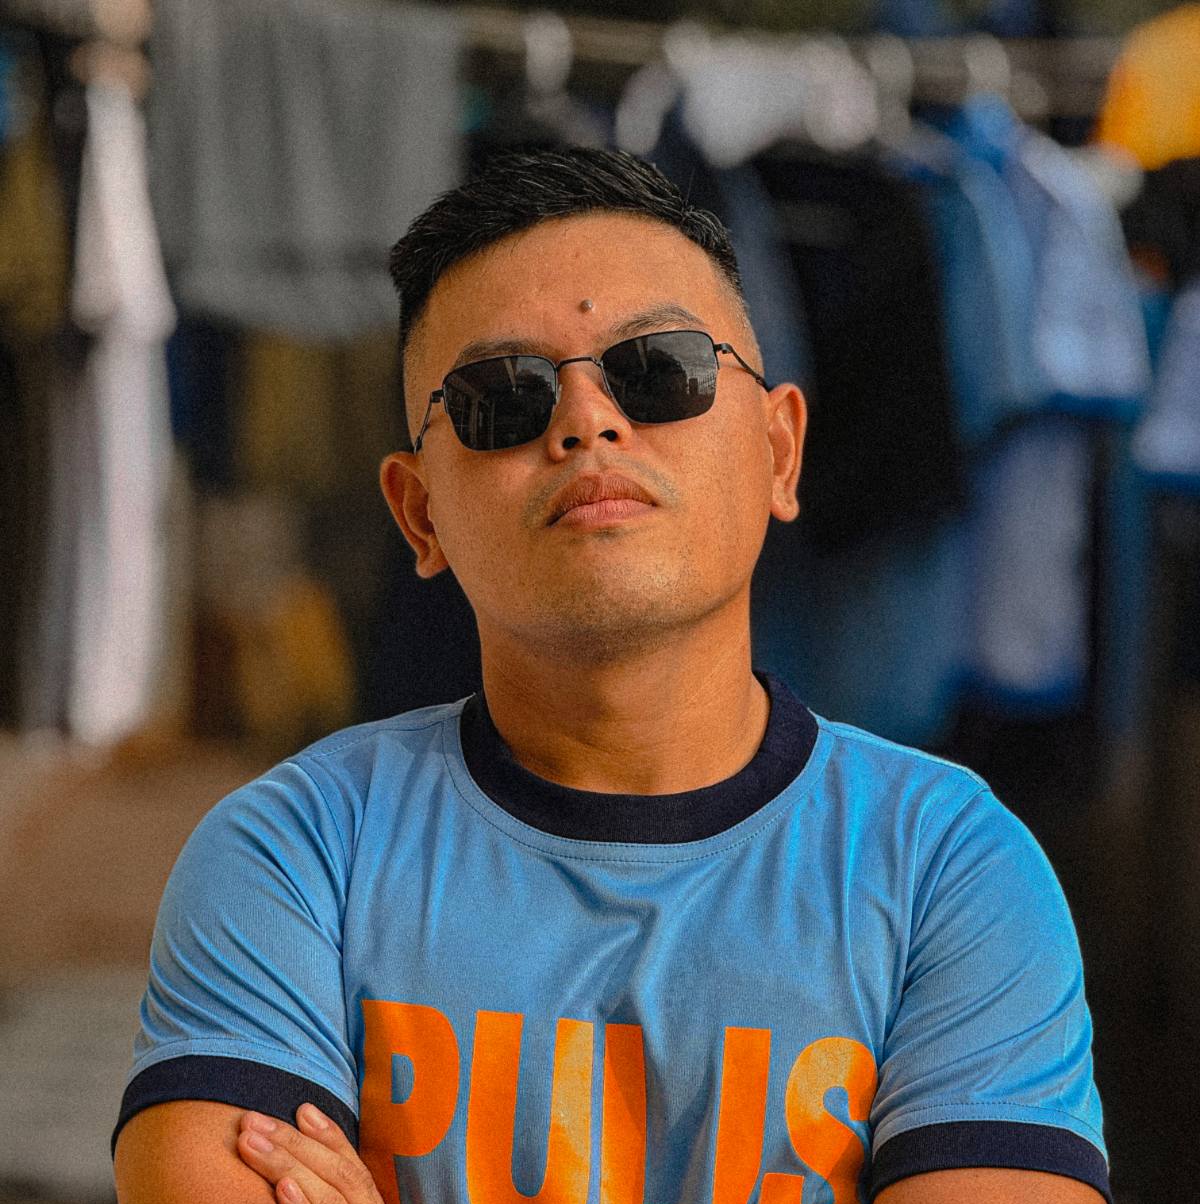
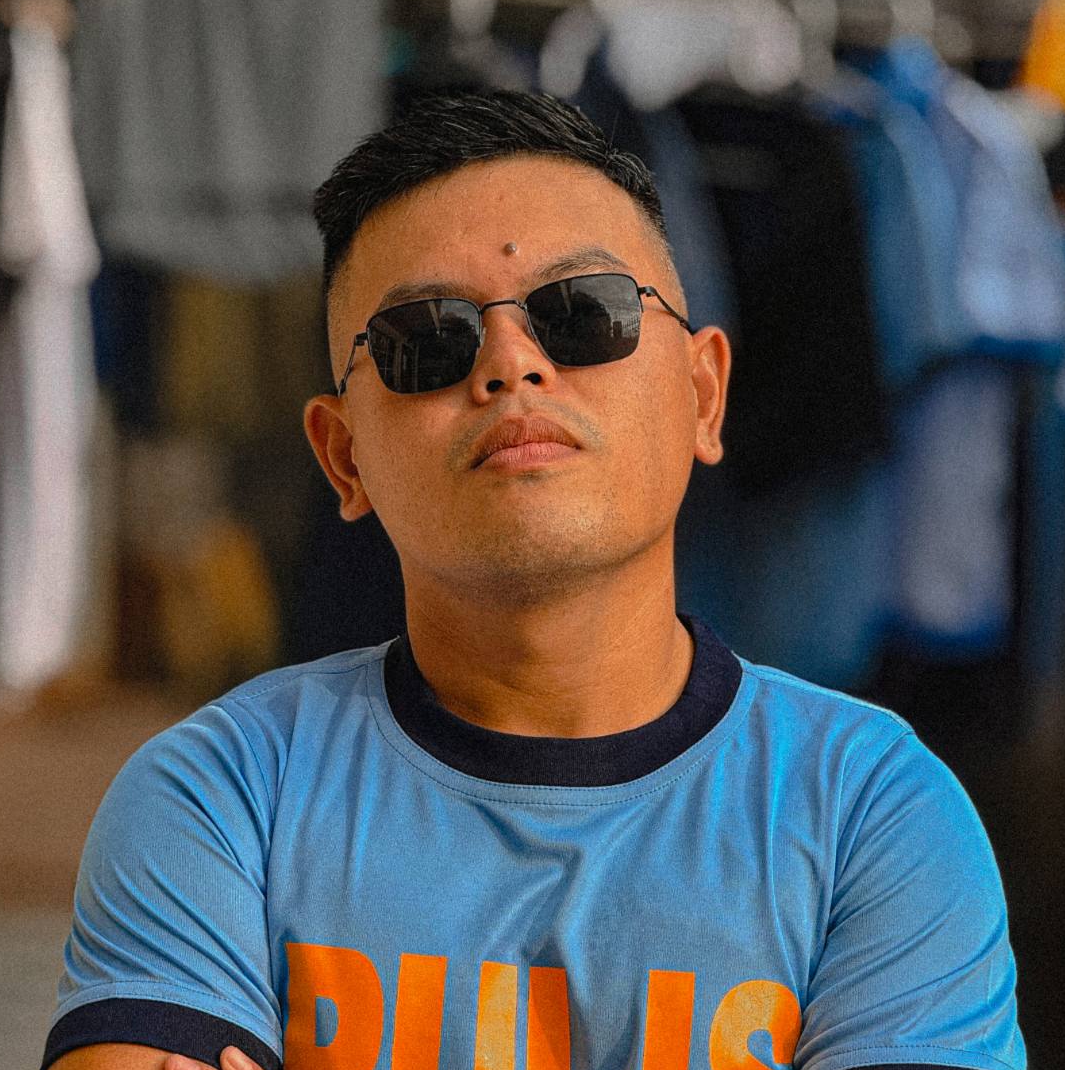
edit image of about page

diff --git a/src/components/about.tsx b/src/components/about.tsx
@@ -136,7 +136,7 @@ export function About() {
           <div className="col-span-12 lg:col-span-6">
             <div
               key={`image-${activeJourney.year}`}
-              className="journey-image-enter relative aspect-[4/5] max-h-[790px] w-full overflow-hidden rounded-t-[28px] bg-muted"
+              className="journey-image-enter relative aspect-4/5 max-h-197.5 w-full overflow-hidden rounded-t-[28px] bg-muted"
             >
               <Image
                 src={activeJourney.image}
